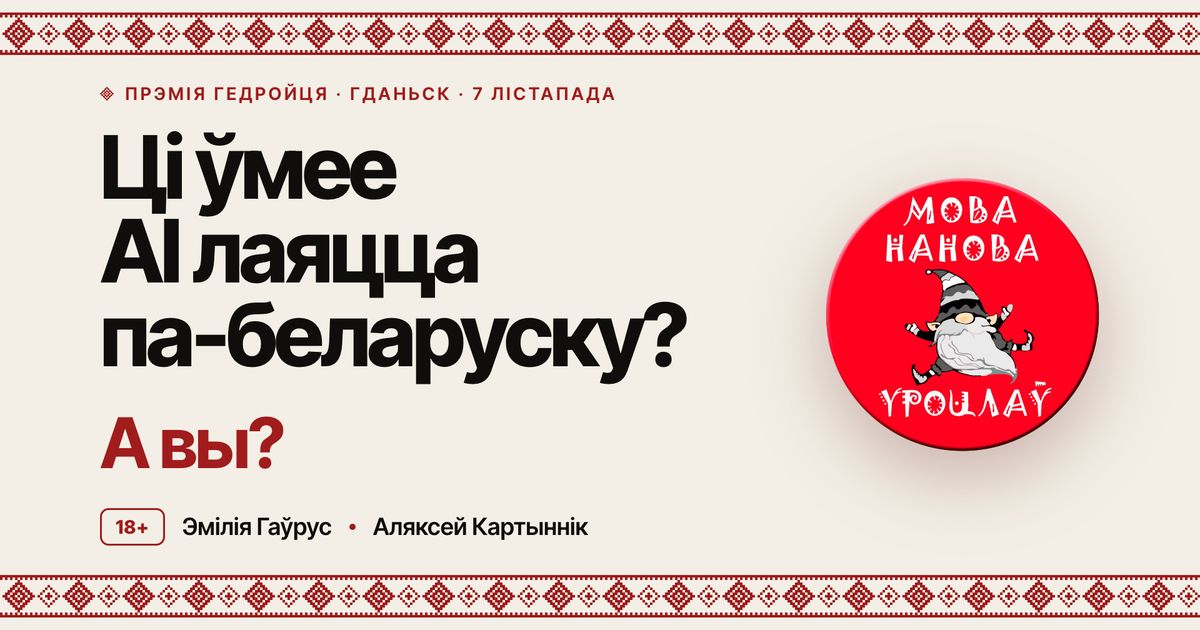
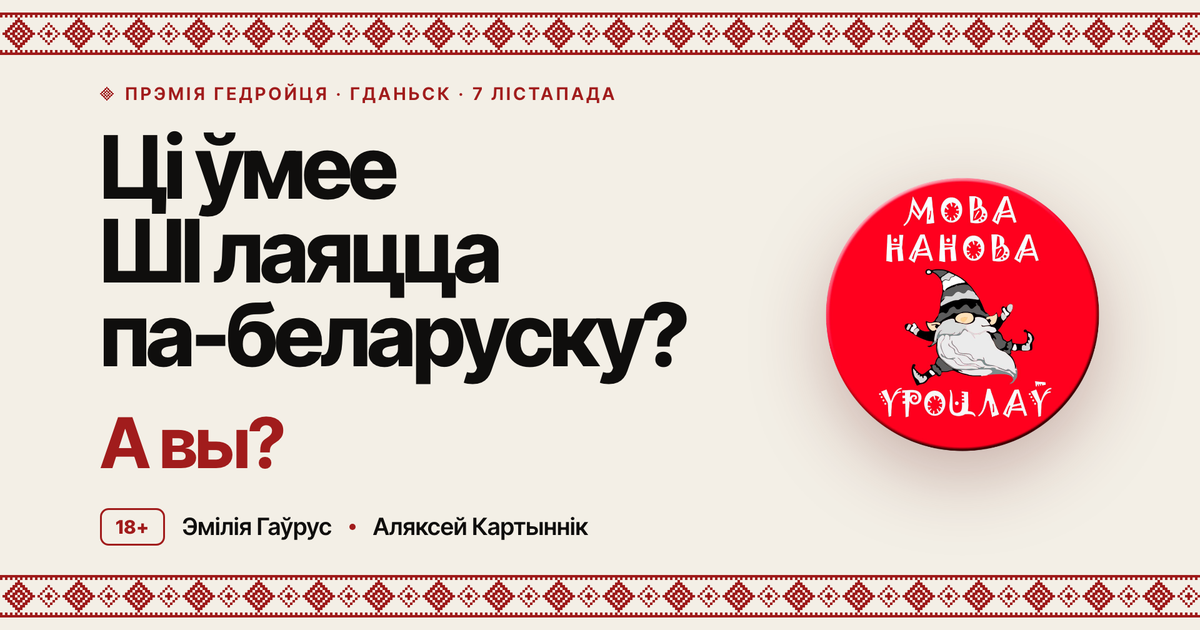
AI → ШІ паўсюль

Changed region(s): [[0.0617, 0.3317, 0.4317, 0.4825]]

diff --git a/index.html b/index.html
@@ -3,10 +3,10 @@
 <head>
 <meta charset="utf-8">
 <meta name="viewport" content="width=device-width, initial-scale=1, viewport-fit=cover">
-<title>Ці ўмее AI лаяцца па-беларуску?</title>
+<title>Ці ўмее ШІ лаяцца па-беларуску?</title>
 <meta name="description" content="Інтэрактыўныя заняткі з «Мовай Нанова» на Прэміі Гедройця: беларуская лаянка, праклёны, «Вушацкі словазбор» Барадуліна — і новыя скаромныя словы, створаныя разам з ChatGPT.">
 <meta property="og:type" content="website">
-<meta property="og:title" content="Ці ўмее AI лаяцца па-беларуску?">
+<meta property="og:title" content="Ці ўмее ШІ лаяцца па-беларуску?">
 <meta property="og:description" content="Інтэрактыўныя заняткі з «Мовай Нанова» · Прэмія Гедройця · Гданьск, 7 лістапада 2026">
 <meta property="og:image" content="assets/img/og.png">
 <meta name="theme-color" content="#7C1313">
@@ -49,7 +49,7 @@
   <div class="inner">
     <div>
       <p class="eyebrow r">Прэмія Гедройця · Гданьск · 7 лістапада</p>
-      <h1 class="h1 r" style="font-size:140px">Ці ўмее AI лаяцца <span class="nowrap">па-беларуску?</span></h1>
+      <h1 class="h1 r" style="font-size:140px">Ці ўмее ШІ лаяцца <span class="nowrap">па-беларуску?</span></h1>
       <p class="h2 accent r mt" style="font-size:112px">А вы?</p>
       <div class="row r mt" style="align-items:center;gap:28px">
         <span class="chip">18+</span>
@@ -414,7 +414,7 @@
     <p class="who r"><span class="orn-motif" style="width:34px;height:34px;color:var(--red)"></span>Частка 2 · вядзе Аляксей «АйЦіБарада» Картыннік</p>
   </div>
   <div class="band">
-    <p class="eyebrow r" style="--d:1">Ці ўмее AI лаяцца па-беларуску?</p>
+    <p class="eyebrow r" style="--d:1">Ці ўмее ШІ лаяцца па-беларуску?</p>
     <h2 class="display r" style="--d:2">Лаянка 2.0</h2>
   </div>
   <div class="bottom">
@@ -516,8 +516,8 @@
 
 <!-- ============================ 33. ВЕРДЫКТ ============================ -->
 <section class="slide" data-theme="dark" data-speaker="Аляксей" data-title="Вердыкт">
-  <p class="eyebrow r">Дык што, ці ўмее AI лаяцца па-беларуску?</p>
-  <p class="h1 b" style="font-size:150px">AI — вучыцца.</p>
+  <p class="eyebrow r">Дык што, ці ўмее ШІ лаяцца па-беларуску?</p>
+  <p class="h1 b" style="font-size:150px">ШІ — вучыцца.</p>
   <p class="h1 b accent mt" style="font-size:150px">А вы — ужо ўмееце.</p>
   <aside class="notes">Падсумаванне: ШІ дапамагае, але жывая мова — за людзьмі.</aside>
 </section>

diff --git a/README.md b/README.md
@@ -1,4 +1,4 @@
-# Ці ўмее AI лаяцца па-беларуску?
+# Ці ўмее ШІ лаяцца па-беларуску?
 
 Прэзентацыя для інтэрактыўных заняткаў «Мовы Нанова» на Прэміі Гедройця (Гданьск, 7 лістапада 2026).
 Вядоўцы: Эмілія Гаўрус і Аляксей «АйЦіБарада» Картыннік.
